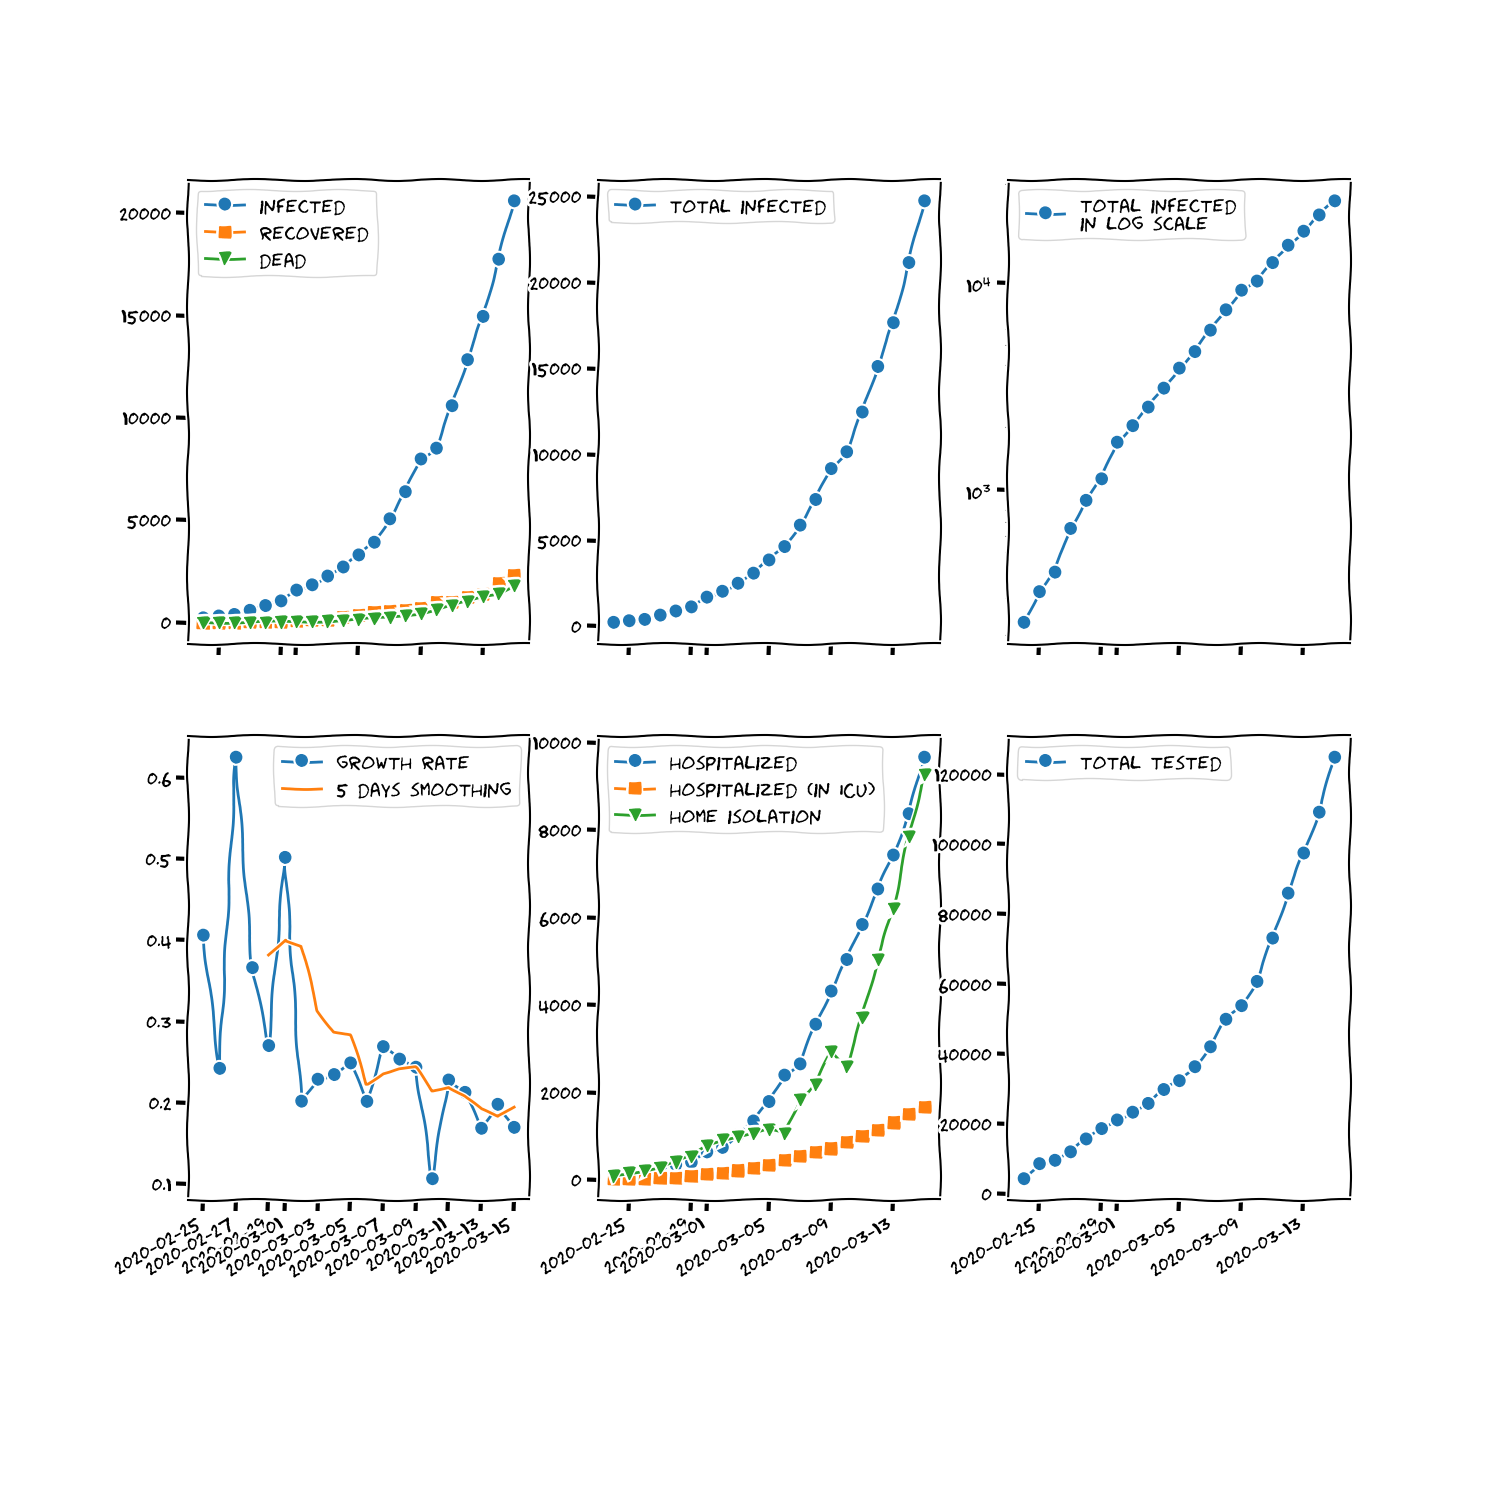
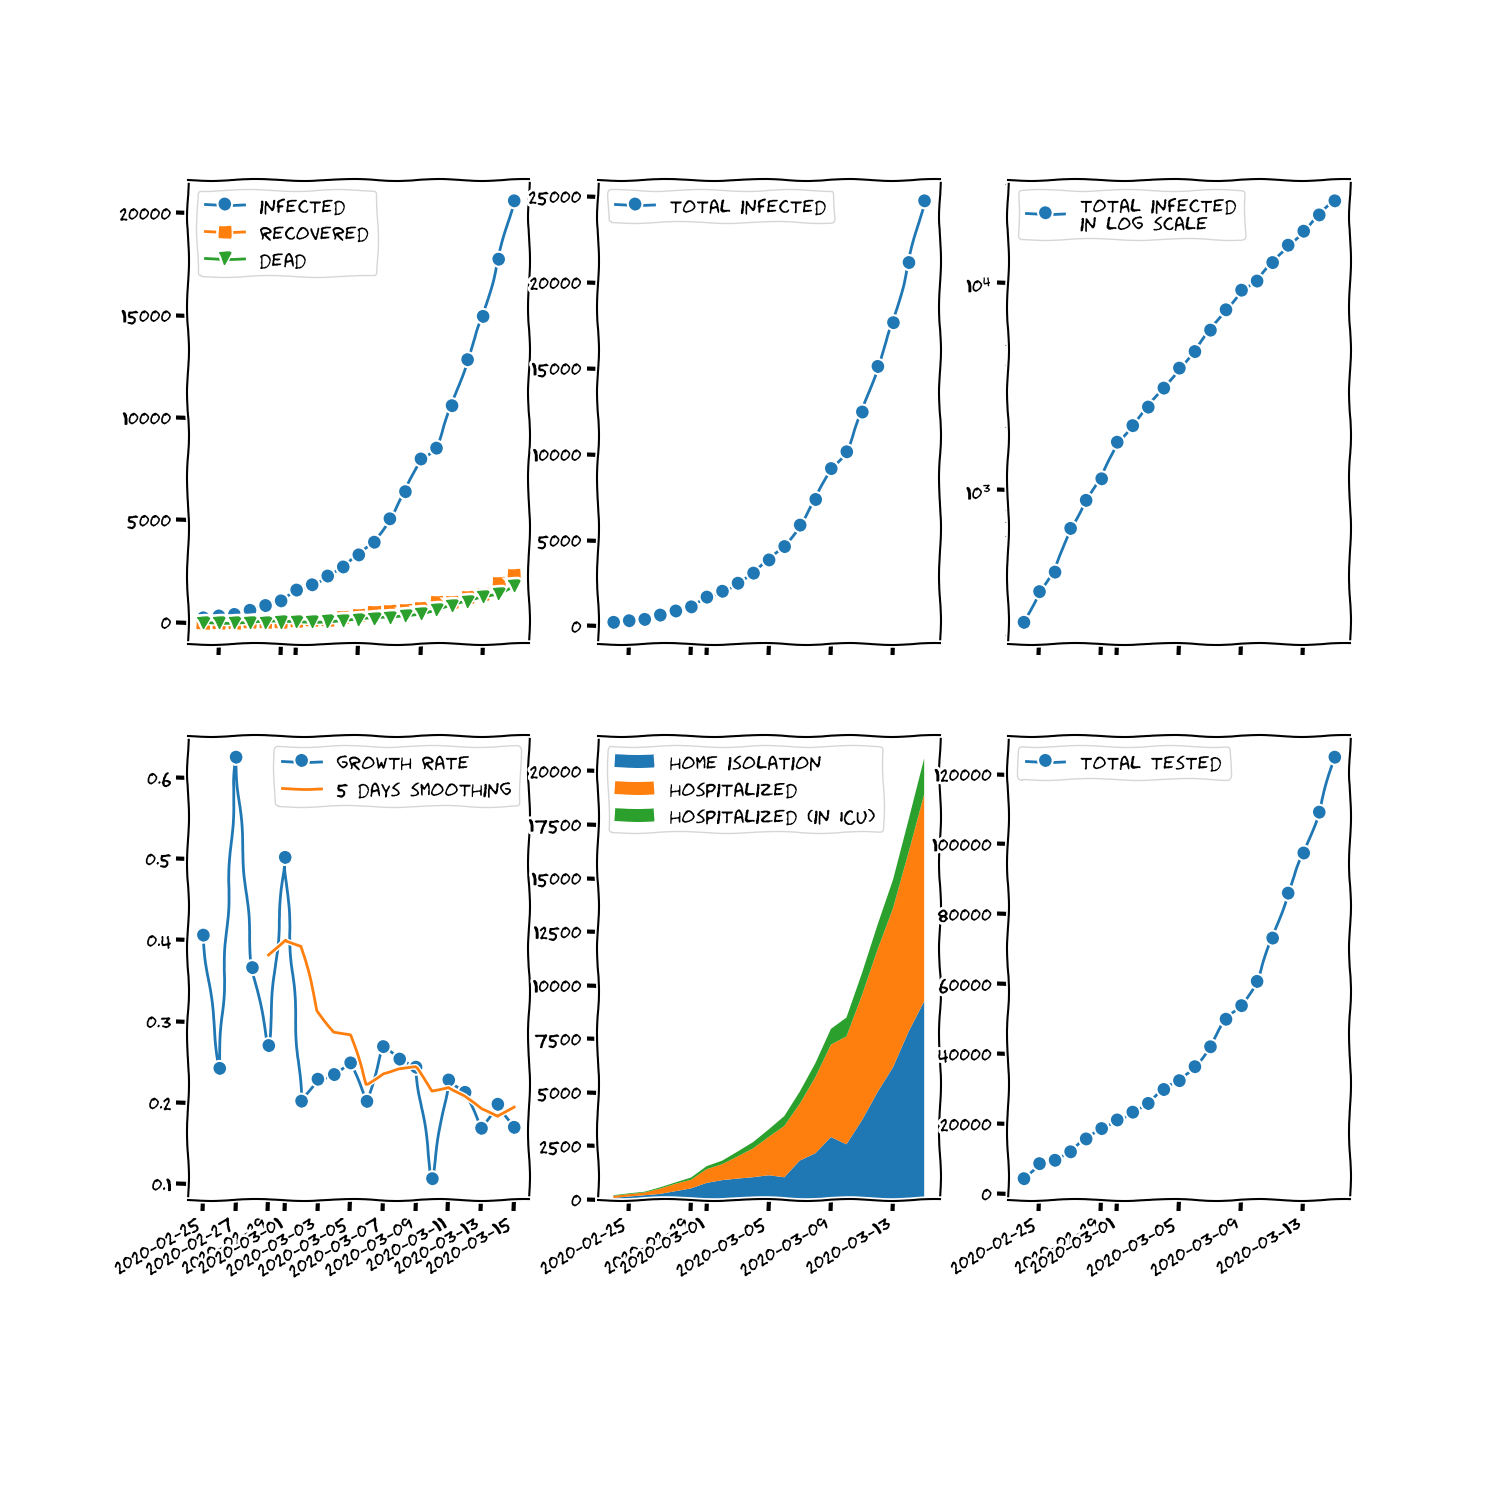
:bar_chart: use stackplot

Changed region(s): [[0.3373, 0.4907, 0.644, 0.7973], [0.6133, 0.4907, 0.644, 0.5213]]

diff --git a/main.py b/main.py
@@ -158,9 +158,8 @@ if __name__ == '__main__':
         ax4.plot(dates[5:], avg_growth_rate, label='5 days smoothing')
         ax4.legend(loc='upper right')
 
-        ax5.plot(dates, hospitalized, 'o-', label='hospitalized')
-        ax5.plot(dates, icus, 's-', label='hospitalized (in ICU)')
-        ax5.plot(dates, isolated, 'v-', label='home isolation')
+        ax5.stackplot(dates, isolated, hospitalized, icus,
+                      labels=['home isolation', 'hospitalized', 'hospitalized (in ICU)'])
         ax5.legend(loc='upper left')
 
         ax6.plot(dates, tested, 'o-', label='total tested')
